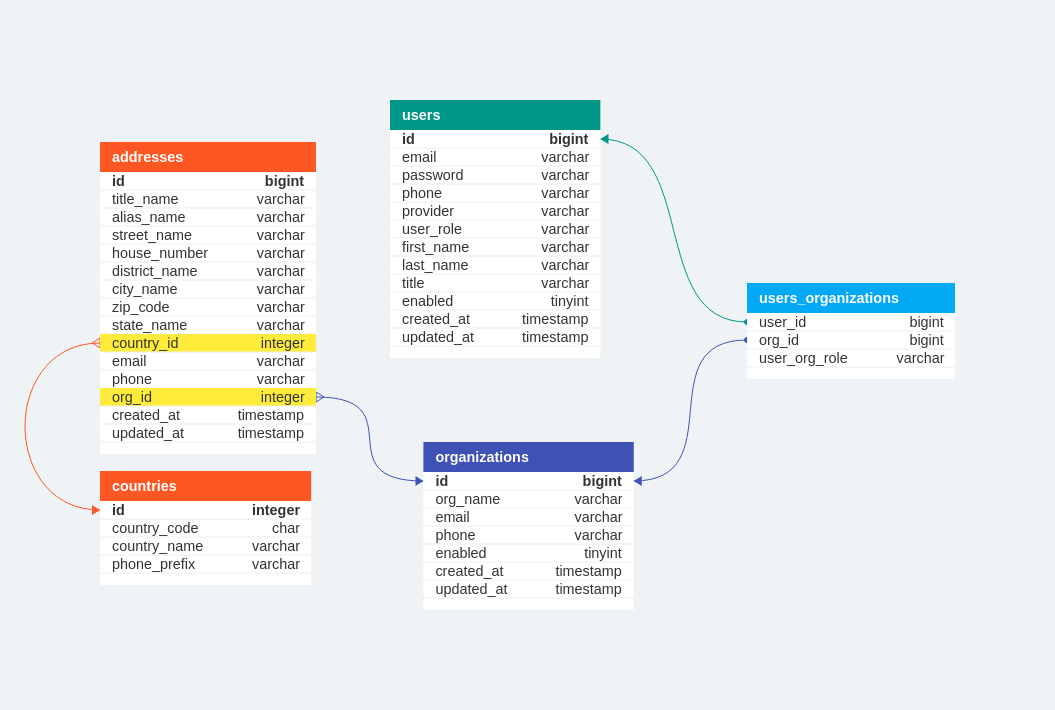
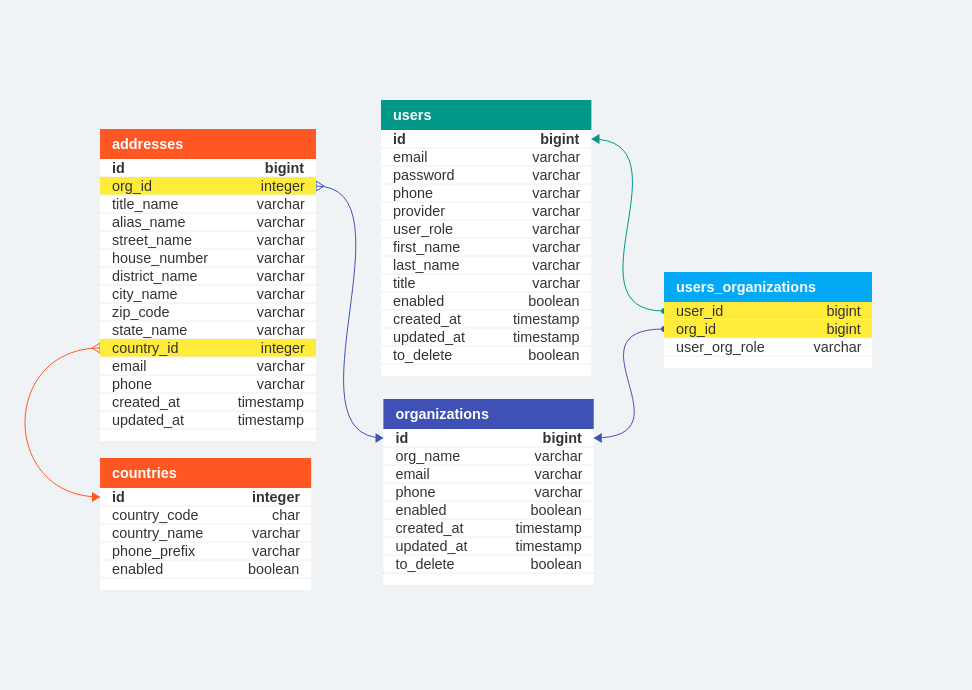
DTOs, entities and mappers for addresses, countries and organizations was created.

diff --git a/OxaTrade/src/main/java/com/oxaata/trade/entity/OrganizationEntity.java b/OxaTrade/src/main/java/com/oxaata/trade/entity/OrganizationEntity.java
@@ -1,49 +1,36 @@
 package com.oxaata.trade.entity;
 
 import java.time.LocalDateTime;
-import java.util.UUID;
 
 import org.springframework.data.annotation.Id;
 import org.springframework.data.relational.core.mapping.Table;
-
-import com.oxaata.trade.enums.OAuth2ProvidersEnum;
-import com.oxaata.trade.enums.UserRoleEnum;
 
 import lombok.AllArgsConstructor;
 import lombok.Builder;
 import lombok.Data;
 import lombok.NoArgsConstructor;
-import lombok.ToString;
 
 /**
- * Entity for users-table
+ * Entity for organizations-table.
  * 
  * @autor Nikolay Osetrov
- * @since 0.1.0
+ * @since 0.1.1
  */
 @Data
 @Builder(toBuilder = true)
 @NoArgsConstructor
 @AllArgsConstructor
-@Table("users")
-public class UserEntity {
+@Table("organizations")
+public class OrganizationEntity {
 
 	@Id
-	private UUID id;
+	private Long id;
+	private String orgName;
 	private String email;
-	private String password;
-	private OAuth2ProvidersEnum provider; // 'google' or 'facebook', etc.
-	private UserRoleEnum userRole;
-	private String title;
-	private String firstName;
-	private String lastName;
+	private String phone;
 	private boolean enabled;
 	private LocalDateTime createdAt;
 	private LocalDateTime updatedAt;
 	private boolean toDelete;
-
-	@ToString.Include(name = "password")
-	private String maskPassword() {
-		return "********";
-	}
+	
 }

diff --git a/OxaTrade/src/main/java/com/oxaata/trade/entity/AddressEntity.java b/OxaTrade/src/main/java/com/oxaata/trade/entity/AddressEntity.java
@@ -1,0 +1,43 @@
+package com.oxaata.trade.entity;
+
+import java.time.LocalDateTime;
+
+import org.springframework.data.annotation.Id;
+import org.springframework.data.relational.core.mapping.Table;
+
+import lombok.AllArgsConstructor;
+import lombok.Builder;
+import lombok.Data;
+import lombok.NoArgsConstructor;
+
+/**
+ * Entity for addresses-table.
+ * 
+ * @autor Nikolay Osetrov
+ * @since 0.1.1
+ */
+@Data
+@Builder(toBuilder = true)
+@NoArgsConstructor
+@AllArgsConstructor
+@Table("addresses")
+public class AddressEntity {
+
+	@Id
+	private Long id;
+	private Long orgId;
+	private String titleName;
+	private String aliasName;
+	private String streetName;
+	private String houseName;
+	private String districtName;
+	private String cityName;
+	private String zipName;
+	private String stateName;
+	private Long countryId;
+	private String email;
+	private String phone;
+	private LocalDateTime createdAt;
+	private LocalDateTime updatedAt;
+
+}

diff --git a/OxaTrade/src/main/java/com/oxaata/trade/entity/CountriesEntity.java b/OxaTrade/src/main/java/com/oxaata/trade/entity/CountriesEntity.java
@@ -1,0 +1,31 @@
+package com.oxaata.trade.entity;
+
+import org.springframework.data.annotation.Id;
+import org.springframework.data.relational.core.mapping.Table;
+
+import lombok.AllArgsConstructor;
+import lombok.Builder;
+import lombok.Data;
+import lombok.NoArgsConstructor;
+
+/**
+ * Entity for countries-table
+ * 
+ * @autor Nikolay Osetrov
+ * @since 0.1.1
+ */
+@Data
+@Builder(toBuilder = true)
+@NoArgsConstructor
+@AllArgsConstructor
+@Table("countries")
+public class CountriesEntity {
+
+	@Id
+	private Long id;
+	private String countryCode;
+	private String countryName;
+	private String phonePrefix;
+	private boolean enabled; // if usable for user
+
+}

diff --git a/OxaTrade/src/main/java/com/oxaata/trade/dto/AddressDto.java b/OxaTrade/src/main/java/com/oxaata/trade/dto/AddressDto.java
@@ -1,0 +1,32 @@
+package com.oxaata.trade.dto;
+
+import java.time.LocalDateTime;
+
+import lombok.Data;
+
+/**
+ * DTO for address creation.
+ * 
+ * @autor Nikolay Osetrov
+ * @since 0.1.1
+ */
+@Data
+public class AddressDto {
+
+	private Long id;
+	private Long orgId;
+	private String titleName;
+	private String aliasName;
+	private String streetName;
+	private String houseName;
+	private String districtName;
+	private String cityName;
+	private String zipName;
+	private String stateName;
+	private Long countryId;
+	private String email;
+	private String phone;
+	private LocalDateTime createdAt;
+	private LocalDateTime updatedAt;
+
+}

diff --git a/OxaTrade/src/main/java/com/oxaata/trade/mapper/OrganizationMapper.java b/OxaTrade/src/main/java/com/oxaata/trade/mapper/OrganizationMapper.java
@@ -1,0 +1,22 @@
+package com.oxaata.trade.mapper;
+
+import org.mapstruct.InheritInverseConfiguration;
+import org.mapstruct.Mapper;
+
+import com.oxaata.trade.dto.OrganizationDto;
+import com.oxaata.trade.entity.OrganizationEntity;
+
+/**
+ * Mapper between OrganizationDto and OrganizationEntity
+ * 
+ * @autor Nikolay Osetrov
+ * @since 0.1.1
+ */
+@Mapper(componentModel = "spring")
+public interface OrganizationMapper {
+
+	OrganizationDto map(OrganizationEntity entity);
+
+	@InheritInverseConfiguration
+	OrganizationEntity map(OrganizationDto dto);
+}

diff --git a/OxaTrade/src/main/java/com/oxaata/trade/mapper/CountriesMapper.java b/OxaTrade/src/main/java/com/oxaata/trade/mapper/CountriesMapper.java
@@ -1,0 +1,22 @@
+package com.oxaata.trade.mapper;
+
+import org.mapstruct.InheritInverseConfiguration;
+import org.mapstruct.Mapper;
+
+import com.oxaata.trade.dto.CountriesDto;
+import com.oxaata.trade.entity.CountriesEntity;
+
+/**
+ * Mapper between CountriesDto and CountriesEntity
+ * 
+ * @autor Nikolay Osetrov
+ * @since 0.1.1
+ */
+@Mapper(componentModel = "spring")
+public interface CountriesMapper {
+
+	CountriesDto map(CountriesEntity entity);
+
+	@InheritInverseConfiguration
+	CountriesEntity map(CountriesDto dto);
+}

diff --git a/OxaTrade/src/main/java/com/oxaata/trade/mapper/AddressMapper.java b/OxaTrade/src/main/java/com/oxaata/trade/mapper/AddressMapper.java
@@ -1,0 +1,22 @@
+package com.oxaata.trade.mapper;
+
+import org.mapstruct.InheritInverseConfiguration;
+import org.mapstruct.Mapper;
+
+import com.oxaata.trade.dto.AddressDto;
+import com.oxaata.trade.entity.AddressEntity;
+
+/**
+ * Mapper between AddressDto and AddressEntity
+ * 
+ * @autor Nikolay Osetrov
+ * @since 0.1.1
+ */
+@Mapper(componentModel = "spring")
+public interface AddressMapper {
+
+	AddressDto map(AddressEntity entity);
+
+	@InheritInverseConfiguration
+	AddressEntity map(AddressDto dto);
+}

diff --git a/OxaTrade/src/main/java/com/oxaata/trade/dto/OrganizationDto.java b/OxaTrade/src/main/java/com/oxaata/trade/dto/OrganizationDto.java
@@ -1,0 +1,25 @@
+package com.oxaata.trade.dto;
+
+import java.time.LocalDateTime;
+
+import lombok.Data;
+
+/**
+ * DTO for organization creation.
+ * 
+ * @autor Nikolay Osetrov
+ * @since 0.1.1
+ */
+@Data
+public class OrganizationDto {
+
+	private Long id;
+	private String orgName;
+	private String email;
+	private String phone;
+	private boolean enabled;
+	private LocalDateTime createdAt;
+	private LocalDateTime updatedAt;
+	private boolean toDelete;
+	
+}

diff --git a/OxaTrade/src/main/java/com/oxaata/trade/mapper/UserMapper.java b/OxaTrade/src/main/java/com/oxaata/trade/mapper/UserMapper.java
@@ -8,7 +8,7 @@ import com.oxaata.trade.dto.UserDto;
 import com.oxaata.trade.entity.UserEntity;
 
 /**
- * Mapper for UserDto to UserEntity.
+ * Mapper between UserDto and UserEntity.
  * 
  * @autor Nikolay Osetrov
  * @since 0.1.0
@@ -22,5 +22,6 @@ public interface UserMapper {
 
 	@InheritInverseConfiguration
 	@Mapping(target = "provider", ignore = true)
+	@Mapping(target = "toDelete", ignore = true)
 	UserEntity map(UserDto dto);
 }

diff --git a/OxaTrade/src/main/java/com/oxaata/trade/dto/CountriesDto.java b/OxaTrade/src/main/java/com/oxaata/trade/dto/CountriesDto.java
@@ -1,0 +1,20 @@
+package com.oxaata.trade.dto;
+
+import lombok.Data;
+
+/**
+ * DTO for countries edit.
+ * 
+ * @autor Nikolay Osetrov
+ * @since 0.1.1
+ */
+@Data
+public class CountriesDto {
+
+	private Long id;
+	private String countryCode;
+	private String countryName;
+	private String phonePrefix;
+	private boolean enabled;
+
+}
